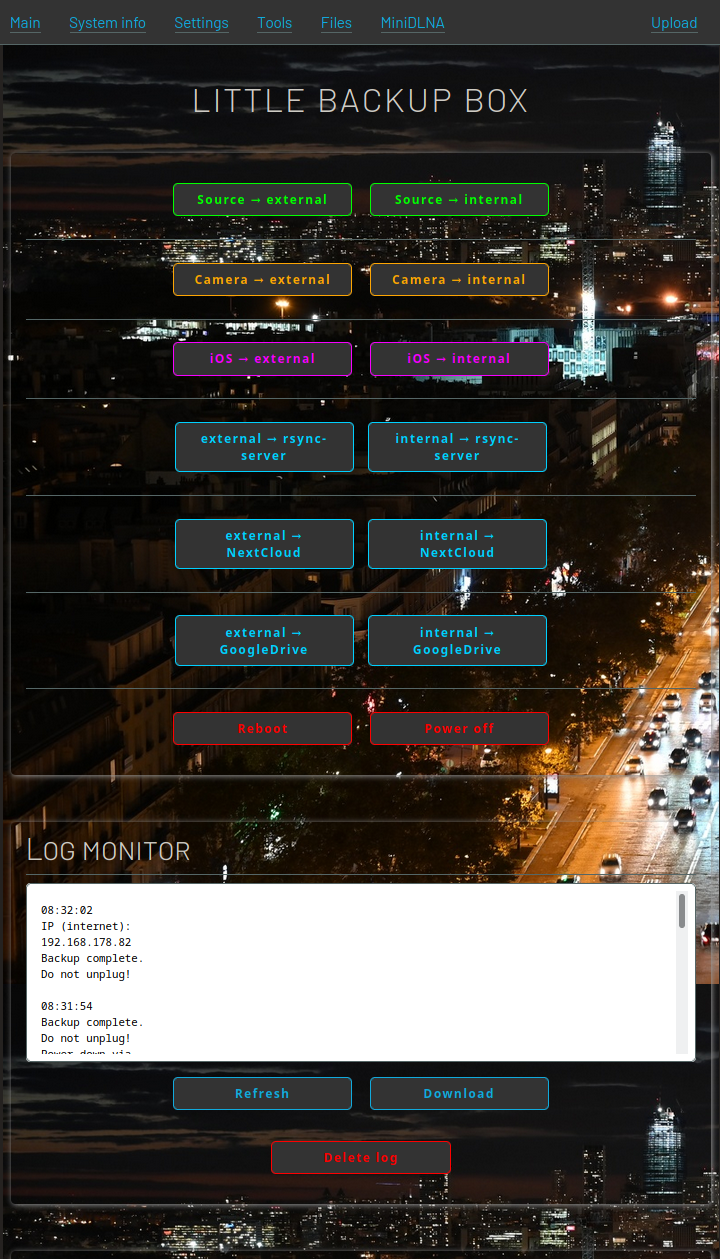
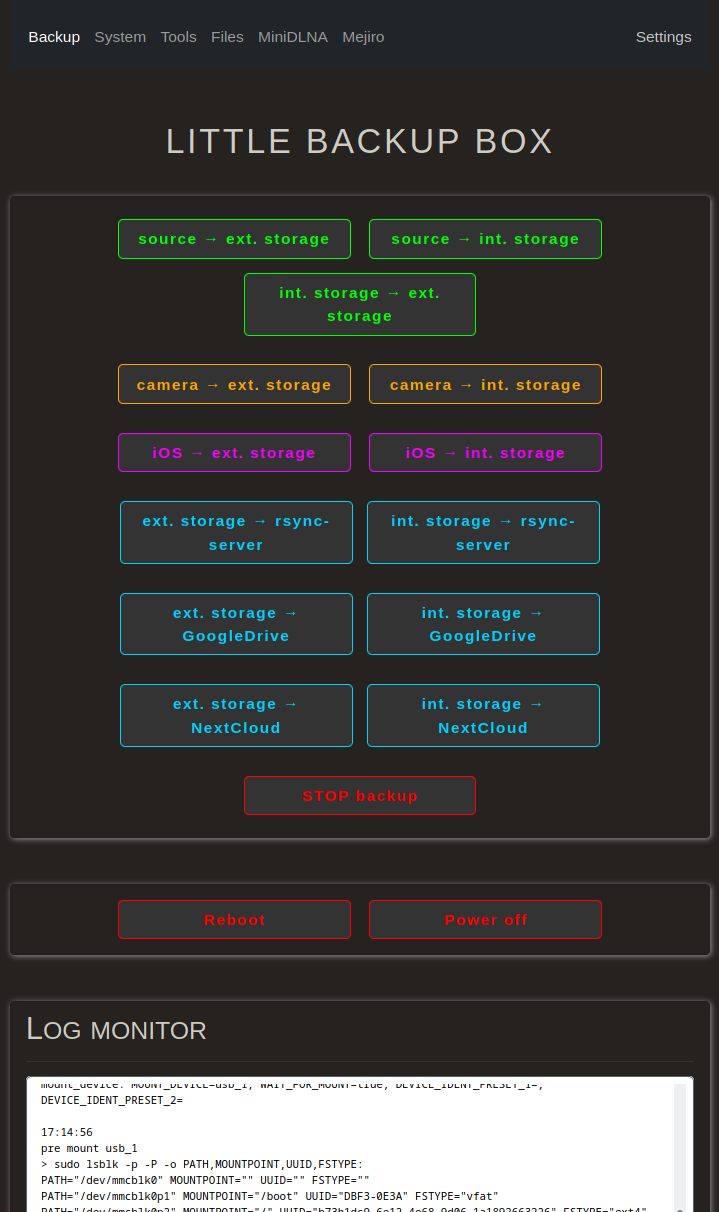
doc

diff --git a/README.md b/README.md
@@ -15,9 +15,13 @@ Dmitri Popov has entrusted me with the further maintenance of Little Backup Box 
 	<li>2021/12/18: Select color-themes and background-images. Design is more colorful now to make orientation easier.</li>
 </ul>
 <br>
- <figure>
+<figure>
 	<img src="https://github.com/outdoorbits/little-backup-box/wiki/images/webui.png" align="center">
 	<figcaption>The web UI</figcaption>
+</figure>
+<figure>
+	<img src="https://github.com/outdoorbits/little-backup-box/wiki/images/webui-smartphone.png" align="center">
+	<figcaption>The web UI on a smartphone. Full function in pocket-size.</figcaption>
  </figure>
 <h2>Developement status</h2>
 Little Backup Box is still under construction.<br>
